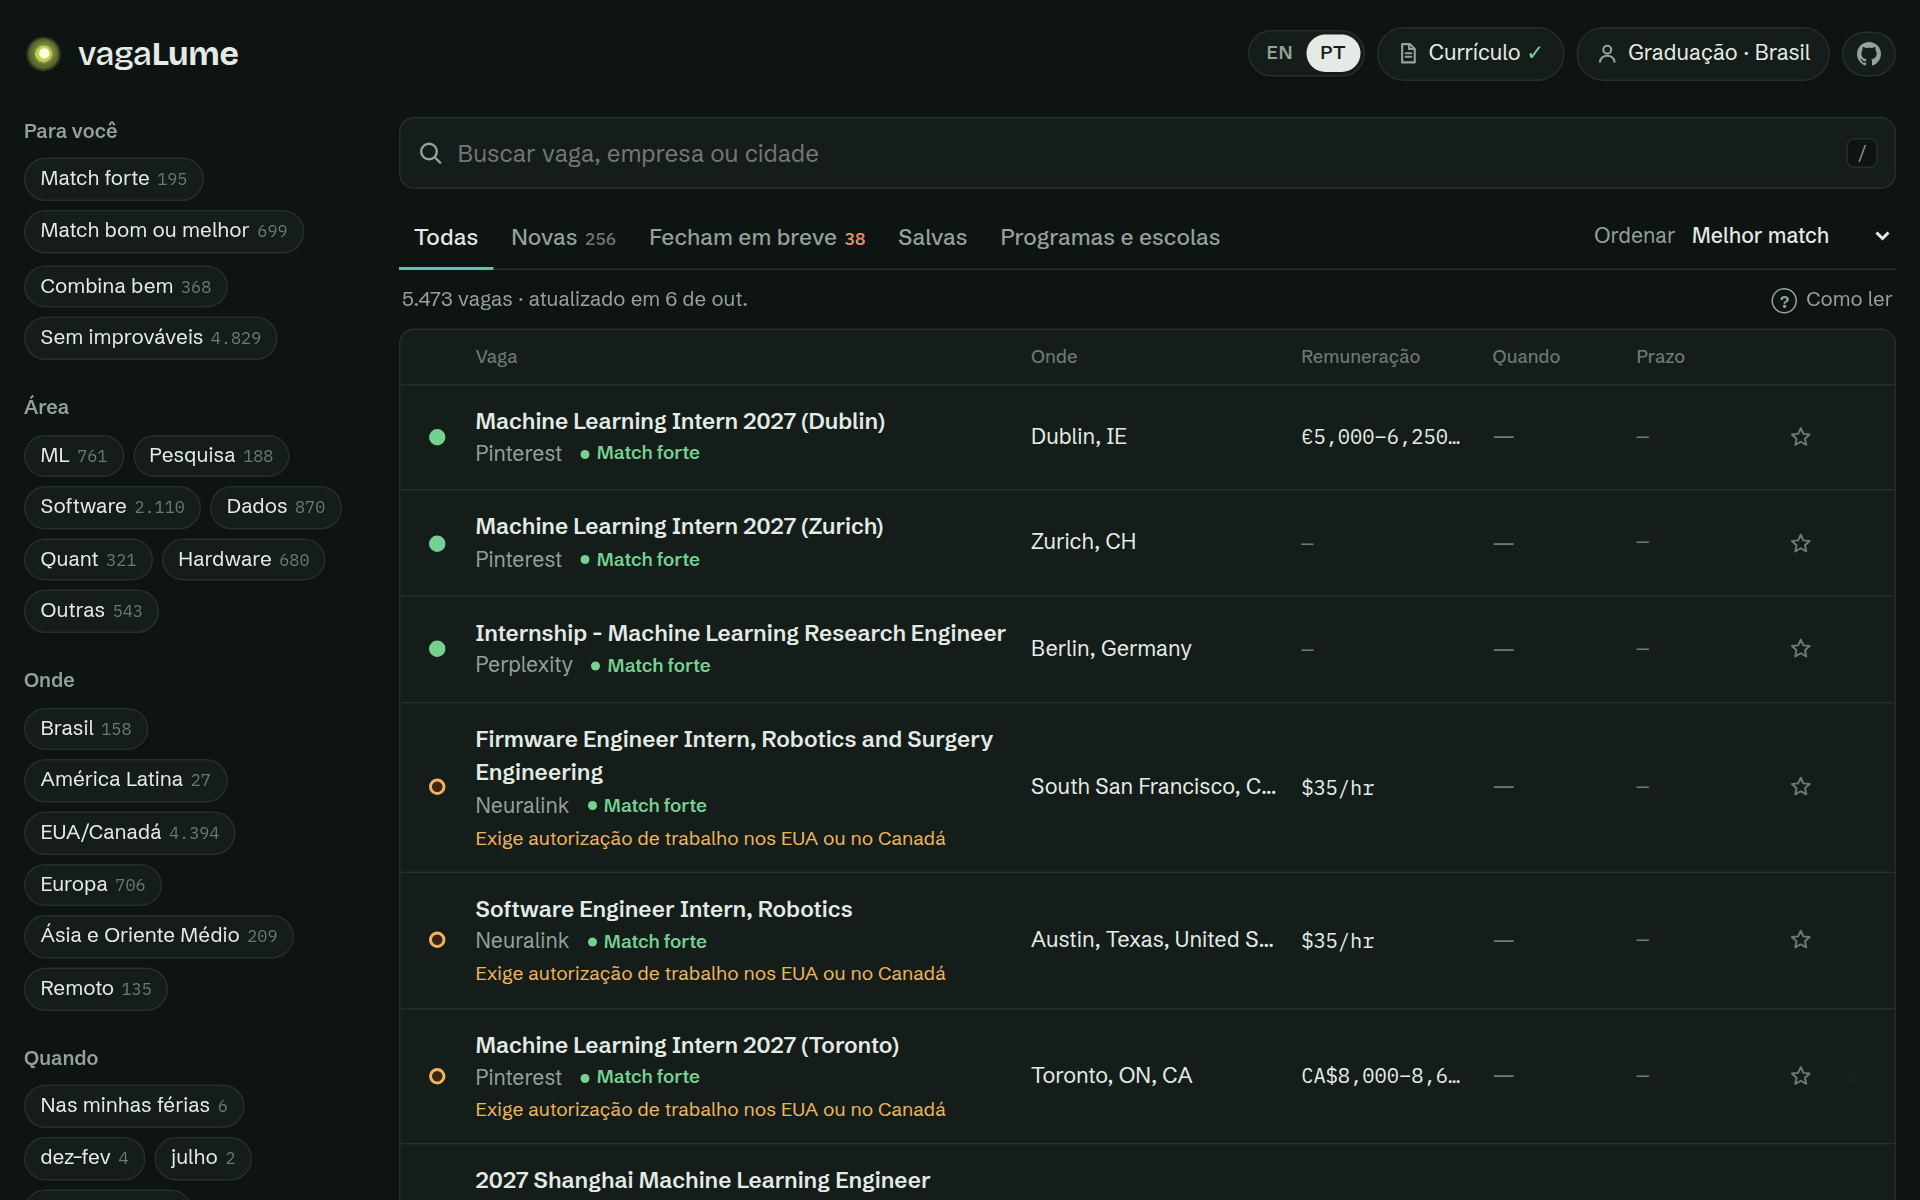
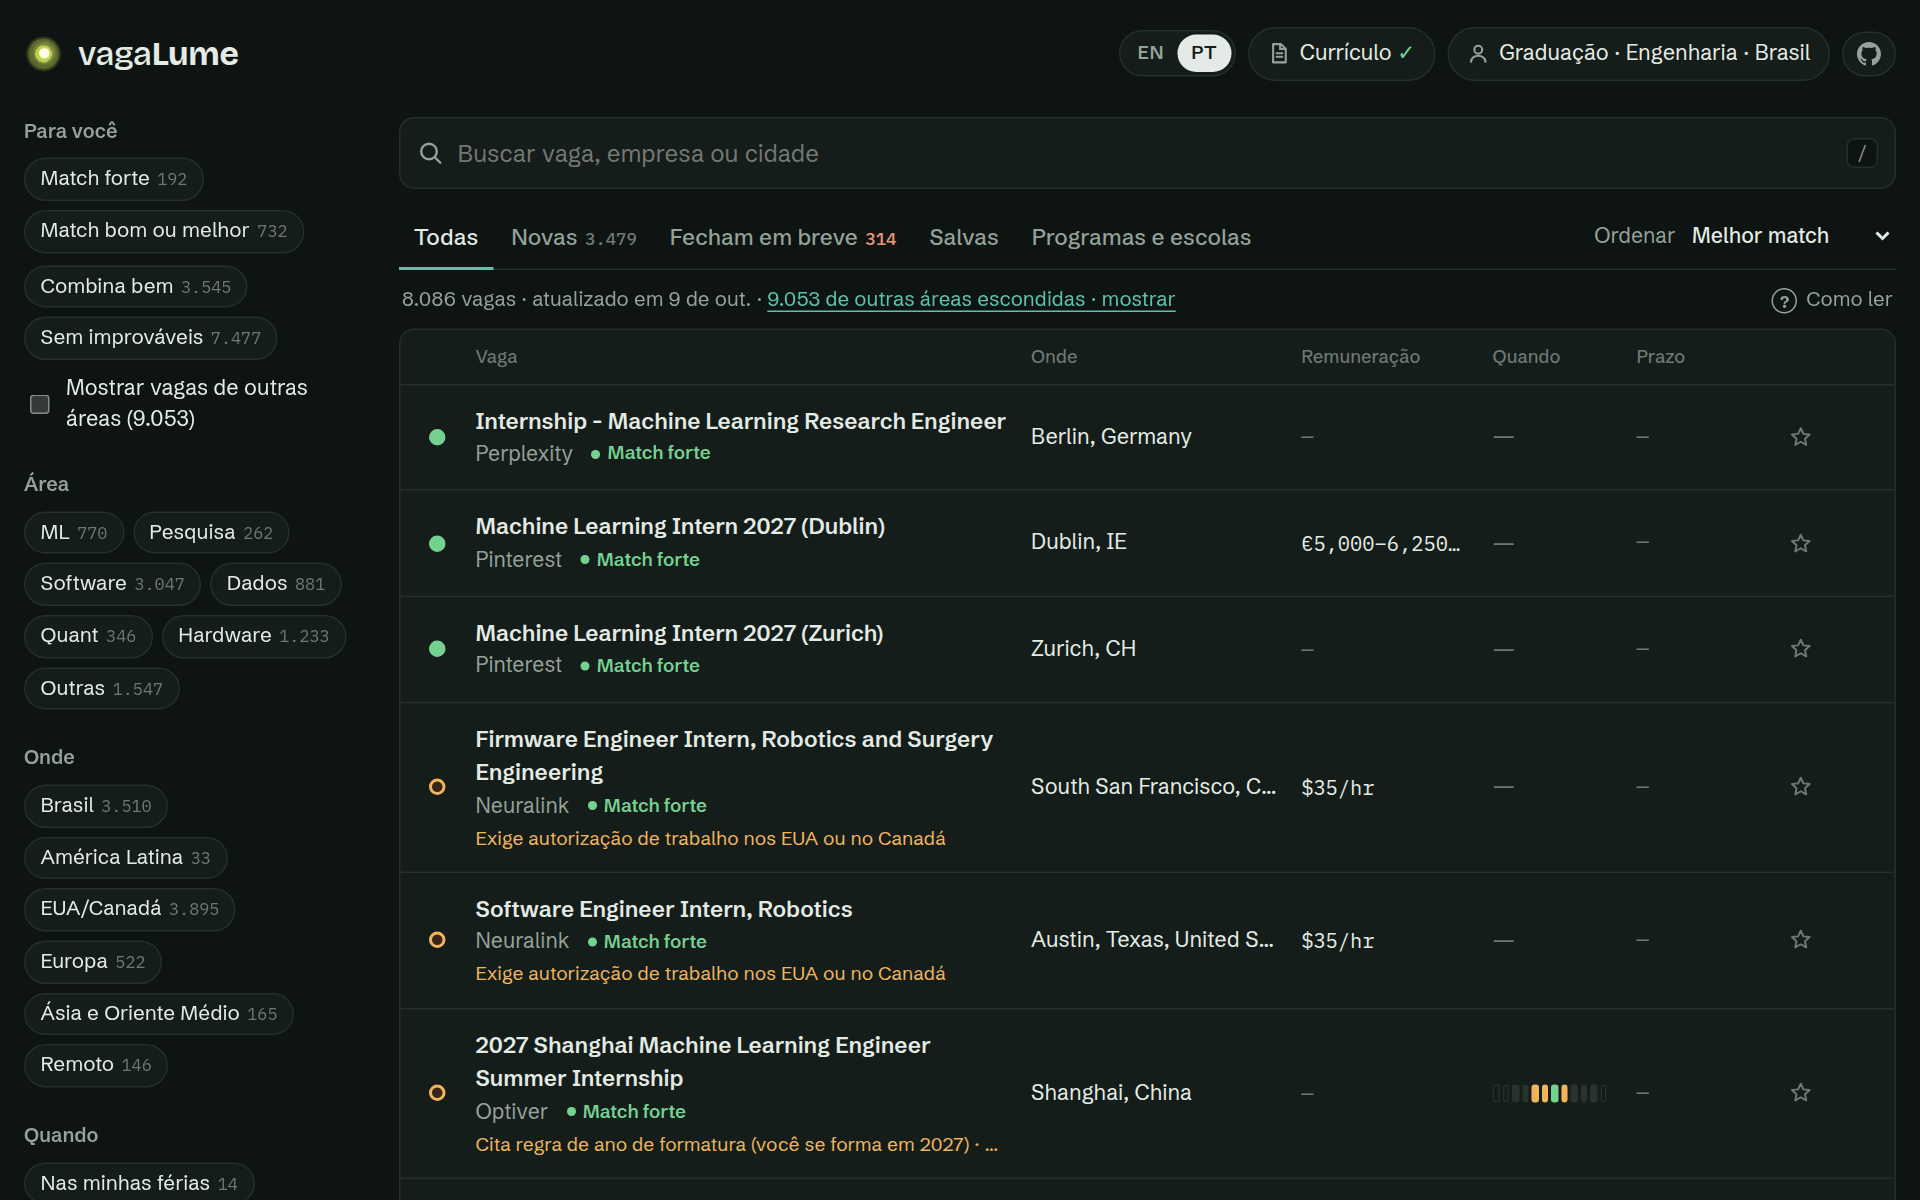
Portuguese demo GIF and screenshots, field-matching fixes, list opens at the top
- assets/demo-pt.gif (main README) and assets/demo.gif (English): the new
  flow with the field question, the 'other fields' toggle and the résumé
  match. Both README screenshot pairs retaken in dark mode with the new UI.
- fields.py: course phrases stop at the end of their sentence (activities
  no longer leak in); 'Educação Física' is health, not physics; plain
  'design' no longer means graphic design; adds informática, cartografia,
  edificações, artes, gastronomia, vendedor and sports estágios.
- pay.py: '30 horas semanais' / '40 hours per week' no longer read as a
  weekly pay period (CNPEM showed R$1,870/wk).
- The list opens at the top after the welcome and résumé screens.

diff --git a/docs/index.html b/docs/index.html
@@ -1096,11 +1096,11 @@ $("use-resume").addEventListener("click", () => {
   }
 });
 $("resume").addEventListener("click", e => {
-  if (e.target.closest("#resume-done")) showApp();
+  if (e.target.closest("#resume-done")) openList();
   if (e.target.closest("#resume-replace")) { $("resume-saved").hidden = true; $("resume-steps").hidden = false; }
   if (e.target.closest("#resume-remove")) { setResume(null); renderResumeSummary(); }
 });
-$("resume-back").addEventListener("click", () => profile ? showApp() : showWelcome());
+$("resume-back").addEventListener("click", () => profile ? openList() : showWelcome());
 $("resume-chip").addEventListener("click", showResume);
 $("welcome-resume").addEventListener("click", showResume);
 
@@ -1140,8 +1140,10 @@ $("places").addEventListener("click", e => {
   document.querySelectorAll("[data-place]").forEach(x => x.setAttribute("aria-pressed", x === b));
   welcomeReady();
 });
-$("start").addEventListener("click", () => { profile = { ...chosen }; store.set("radar.profile", profile); view.sort = ""; showApp(); });
-$("skip").addEventListener("click", () => { profile = { skipped: true }; store.set("radar.profile", profile); view.sort = ""; showApp(); });
+// Coming from the welcome or résumé screen, the list starts at the top.
+const openList = () => { showApp(); window.scrollTo(0, 0); };
+$("start").addEventListener("click", () => { profile = { ...chosen }; store.set("radar.profile", profile); view.sort = ""; openList(); });
+$("skip").addEventListener("click", () => { profile = { skipped: true }; store.set("radar.profile", profile); view.sort = ""; openList(); });
 
 // ------------------------------------------------------------------ app
 function showApp() {

diff --git a/radar/fields.py b/radar/fields.py
@@ -7,8 +7,8 @@ which field they want are always shown.
 Fields come from the title first. If the title names no field (e.g.
 "Estagiário(a)"), we look at the course phrases in the description
 ("cursando Direito ou Administração", "graduação em Engenharia", "degree in
-Computer Science"), not the whole text, because company blurbs mention
-everything. Patterns are matched without accents, in Portuguese and English.
+Computer Science", up to the end of that sentence), not the whole text,
+because company blurbs and activity lists mention everything. Patterns are matched without accents, in Portuguese and English.
 
 The site keeps its own list of which fields are related (an engineering
 student also sees computing roles), see FIELD_RELATED in docs/index.html.
@@ -22,29 +22,31 @@ import unicodedata
 FIELDS: dict[str, str] = {
     "engenharia": r"\bengenh|\bengineer|mecanic|\bmechanical|eletric|\belectrical|eletronic|\belectronic|automacao|\bautomation|mecatronic|mechatronic"
                   r"|\bcivil\b|engenharia de producao|manufatur|manufactur|\bhardware|firmware|\bembedded|embarcad|robotic|aeroespac|aerospace|\bnaval\b"
-                  r"|metalurg|metallurg|\bpetroleo|petroleum|mineracao|\bmining\b|eletrotecnic|manutencao|\bmaintenance|telecomunica|telecom\b|\bsolidworks|\bautocad|seguranca do trabalho|occupational safety",
-    "computacao": r"comput|\bsoftware|desenvolv|developer|programad|programming|\bti\b|tecnologia da informacao|information technology|sistemas de informacao"
+                  r"|metalurg|metallurg|\bpetroleo|petroleum|mineracao|\bmining\b|eletrotecnic|manutencao|\bmaintenance|telecomunica|telecom\b|\bsolidworks|\bautocad|seguranca do trabalho|occupational safety|cartograf|edificacoes|agrimensura",
+    "computacao": r"comput|informatica|sistemas para internet|implantacao de sistemas|\bsoftware|desenvolv|developer|programad|programming|\bti\b|tecnologia da informacao|information technology|sistemas de informacao"
                   r"|analise e desenvolvimento de sistemas|\bdata\b|\bdados\b|machine learning|aprendizado de maquina|inteligencia artificial|artificial intelligence"
                   r"|\bai\b|\bia\b|\bml\b|\bcyber|seguranca da informacao|\bdevops|\bcloud\b|front[ -]?end|back[ -]?end|full[ -]?stack|\bweb\b|\bmobile\b"
                   r"|\bandroid\b|\bios\b|\bqa\b|quality assurance|suporte tecnico|help ?desk|infraestrutura de ti|redes de computadores"
                   r"|arquitetura (?:enterprise|de software|de dados|de solucoes|cloud|corporativa)|software architect",
-    "exatas": r"matematic|mathemat|estatistic|statistic|\bfisica\b|\bphysics\b|\bquimica\b|\bchemistry|atuari|actuar|\bquant\b|quantitative",
+    "exatas": r"matematic|mathemat|estatistic|statistic|(?<!educacao )\bfisica\b|\bphysics\b|\bquimica\b|\bchemistry|atuari|actuar|\bquant\b|quantitative",
     "negocios": r"administra|\bbusiness|economi|contab|accounting|financ|controladoria|\bfiscal|tribut|\baudit|comercial|\bvendas|\bsales\b|\bcompras"
                 r"|procurement|suprimentos|logistic|supply chain|recursos humanos|\brh\b|human resources|\bpeople\b|\btalent|atendimento|customer (service|success)"
                 r"|relacionamento|bancari|\bbanking|investiment|investment|\bcredito|\bcredit\b|\bseguros|operacoes|\boperations|planejamento|\bgestao"
                 r"|secretari|consultor|consulting|estrategi|strategy|\bproduto\b|\bproduct\b|trading|\bmercado financeiro"
-                r"|account management|account executive|key account|\bmarketplace",
+                r"|account management|account executive|key account|\bmarketplace|vended|governanca",
     "direito": r"\bdireito|juridic|\blegal\b|\blaw\b|advoca|paralegal|\bcompliance|contencioso",
     "saude": r"enfermag|nursing|\bnurse|medicin|\bmedical|farmac|pharmac|\bnutri|psicolog|psycholog|fisioterap|physiotherap|odontolog|dentist|biomedic"
-             r"|veterinar|terapia ocupacional|fonoaudiolog|radiolog|\bclinic|hospital|\bsaude\b|health ?care|educacao fisica|\besporte",
+             r"|veterinar|terapia ocupacional|fonoaudiolog|radiolog|\bclinic|hospital|\bsaude\b|health ?care|educacao fisica|\besporte"
+             r"|natacao|crossfit|musculacao|recreacao|alongamento|pilates|personal trainer",
     "biologicas": r"\bbiolog|biotec|biotech|agronom|agricult|\bagro|zootec|florest|\bforest|ambient|environment|sustentab|sustainab|ecolog|geolog"
                   r"|geocien|oceanograf|engenharia de alimentos|ciencia de alimentos|food science|bioquim|biochem|genetic|microbio",
-    "comunicacao": r"comunica|communication|jornalis|journalis|marketing|publicidade|propaganda|advertising|relacoes publicas|public relations|\bdesign"
-                   r"|\bux\b|\bui\b|grafic|graphic|midias? sociais|social media|redator|redacao|copywrit|\bconteudo|\bcontent\b|audiovisual|\bvideo"
+    "comunicacao": r"comunica|communication|jornalis|journalis|marketing|publicidade|propaganda|advertising|relacoes publicas|public relations"
+                   r"|designer|design (?:grafico|de produto|visual|digital|de moda|de interiores|instrucional)|(?:graphic|visual|product|web|ux|ui) design"
+                   r"|\bartes (?:visuais|plasticas|cenicas)|\bmusica\b|\bux\b|\bui\b|grafic|graphic|midias? sociais|social media|redator|redacao|copywrit|\bconteudo|\bcontent\b|audiovisual|\bvideo"
                    r"|fotograf|cinema|\beventos|branding|\bcriacao|creative",
-    "humanas": r"pedagog|\beducacao\b|\beducation\b|\bensino\b|professor|teacher|letras|idiomas|\blanguages?\b|traduc|translat|\bhistoria\b|\bhistory\b"
+    "humanas": r"pedagog|\beducacao\b(?! fisica)|\beducation\b|\bensino\b|professor|teacher|letras|idiomas|\blanguages?\b|traduc|translat|\bhistoria\b|\bhistory\b"
                r"|geografia|sociolog|antropolog|filosofi|ciencias sociais|social sciences|servico social|social work|relacoes internacionais"
-               r"|international relations|turismo|tourism|hotelaria|biblioteconom|museolog|arquivolog",
+               r"|international relations|turismo|tourism|hotelaria|gastronomia|biblioteconom|museolog|arquivolog",
     "arquitetura": r"arquitetura e urbanismo|urbanis|paisagis|design de interiores|architectural|arquitet[ao]s?\b(?! (de |da |do |enterprise|cloud|corporativ))",
 }
 _COMPILED = {name: re.compile(pattern) for name, pattern in FIELDS.items()}
@@ -53,7 +55,7 @@ NAMES = list(FIELDS)
 # Phrases that introduce the courses a posting accepts.
 _COURSE_PHRASE = re.compile(
     r"(?:cursando|graduacao em|graduandos? (?:em|de)|estudantes? (?:de|do curso de)|formacao em|cursos?:|cursos? de|area:|"
-    r"students? (?:of|in|majoring in|pursuing)|degree in|majoring in|pursuing a (?:bachelor'?s|master'?s|degree) (?:degree )?in)(.{0,160})"
+    r"students? (?:of|in|majoring in|pursuing)|degree in|majoring in|pursuing a (?:bachelor'?s|master'?s|degree) (?:degree )?in)([^.;\n]{0,80})"
 )
 
 

diff --git a/tests/test_fields.py b/tests/test_fields.py
@@ -20,6 +20,11 @@ from radar.models import Opportunity
     ("Quantitative Researcher Intern", ["exatas"]),
     ("Estágio em Marketing Digital", ["comunicacao"]),
     ("Research Intern", []),  # says nothing about the field
+    ("Estágio em Educação Física", ["saude"]),  # not physics, not education
+    ("Robotics Engineer Intern - Model Based Design", ["engenharia"]),  # engineering design, not graphic design
+    ("Estágio em Design Gráfico", ["comunicacao"]),
+    ("Estágio em Informatica", ["computacao"]),
+    ("Estagiário(a) de Natação", ["saude"]),
 ])
 def test_fields_from_the_title(title, expected):
     assert find_fields(title) == expected
@@ -29,6 +34,8 @@ def test_generic_title_uses_the_course_phrase_not_the_company_blurb():
     description = "Somos uma empresa de tecnologia e dados. Requisitos: cursando Administração ou Economia."
     assert find_fields("Estagiário(a)", description) == ["negocios"]
     assert find_fields("Estagiário(a)", "Empresa de tecnologia e dados.") == []
+    # Only the sentence with the courses counts, not the activities after it.
+    assert find_fields("Estágio em Gastronomia", "Área: Gastronomia. Atividades: manutenção da cozinha.") == ["humanas"]
 
 
 def test_apply_rules_fills_fields():

diff --git a/radar/pay.py b/radar/pay.py
@@ -94,7 +94,12 @@ def parse_number(text: str) -> float | None:
         return None
 
 
+# "30 horas semanais", "40 hours per week" describe working hours, not the pay period.
+_WORK_HOURS = re.compile(r"\d+\s*(?:h|hrs?|horas?|hours?)\s*(?:semanais|por semana|/\s?semana|per week|/\s?week|a week|weekly)", re.I)
+
+
 def _period(context: str, value: float, currency: str) -> str:
+    context = _WORK_HOURS.sub(" ", context)
     for name, pattern in PERIODS:
         if pattern.search(context):
             return name

diff --git a/tests/test_pay.py b/tests/test_pay.py
@@ -63,3 +63,8 @@ def test_old_database_gets_pay_column(tmp_path):
     conn = db.connect(path)  # reopening adds it back
     columns = {row["name"] for row in conn.execute("PRAGMA table_info(opportunities)")}
     assert "pay" in columns
+
+
+def test_weekly_hours_are_not_the_pay_period():
+    assert find_pay("Bolsa-auxílio de R$ 1.870,00, 30 horas semanais, por até 2 anos.") == "R$1,870/mo"
+    assert find_pay("Stipend: $2,500 per month, 40 hours per week.") == "$2,500/mo"

diff --git a/README.md b/README.md
@@ -28,7 +28,7 @@
 </p>
 
 <p align="center">
-  <img src="assets/demo.gif" alt="vagaLume em uso: escolha seu nível e país, filtre por área, busque, abra uma vaga e salve" width="92%">
+  <img src="assets/demo-pt.gif" alt="vagaLume em uso: escolha a sua área, nível e país, filtre, busque, abra uma vaga, veja as vagas de outras áreas e compare o seu currículo" width="92%">
 </p>
 
 ---

diff --git a/README.en.md b/README.en.md
@@ -28,7 +28,7 @@
 </p>
 
 <p align="center">
-  <img src="assets/demo.gif" alt="vagaLume in action: pick your level and country, filter by area, search, open a role and save it" width="92%">
+  <img src="assets/demo.gif" alt="vagaLume in action: pick your field, level and country, filter, search, open a role, peek at other fields and match your résumé" width="92%">
 </p>
 
 ---
